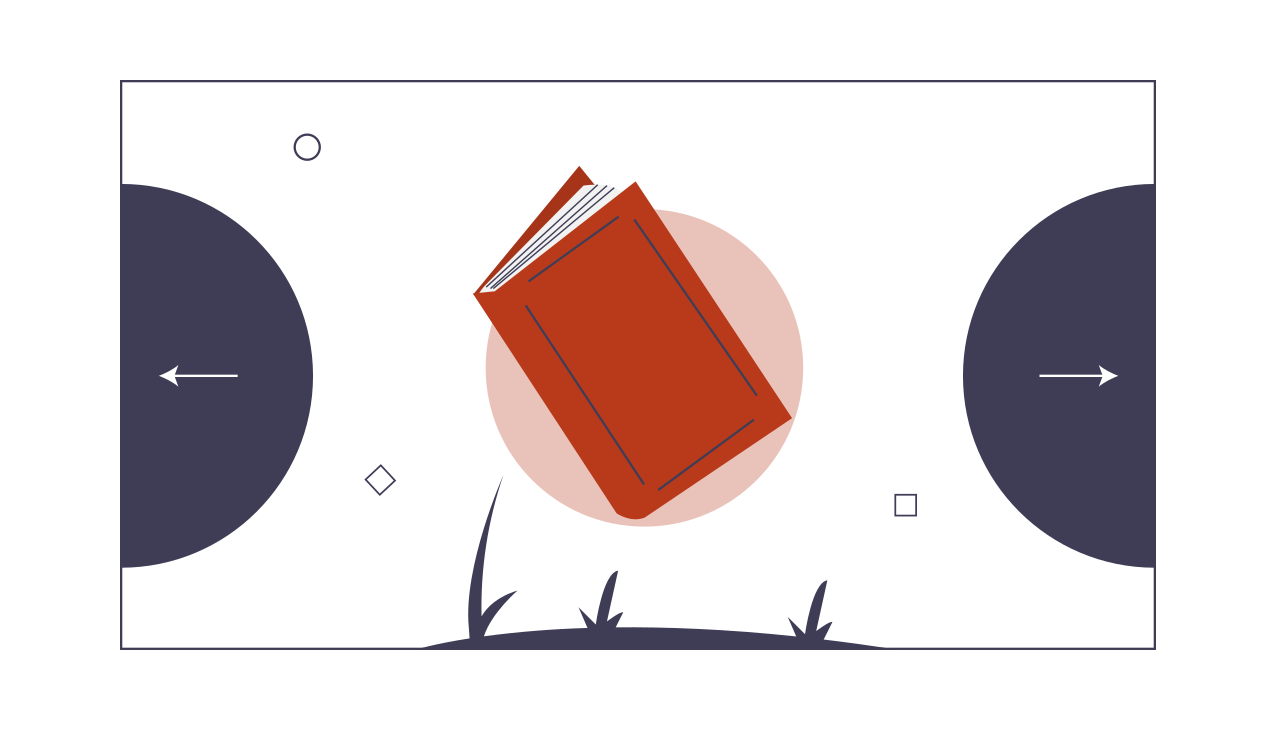
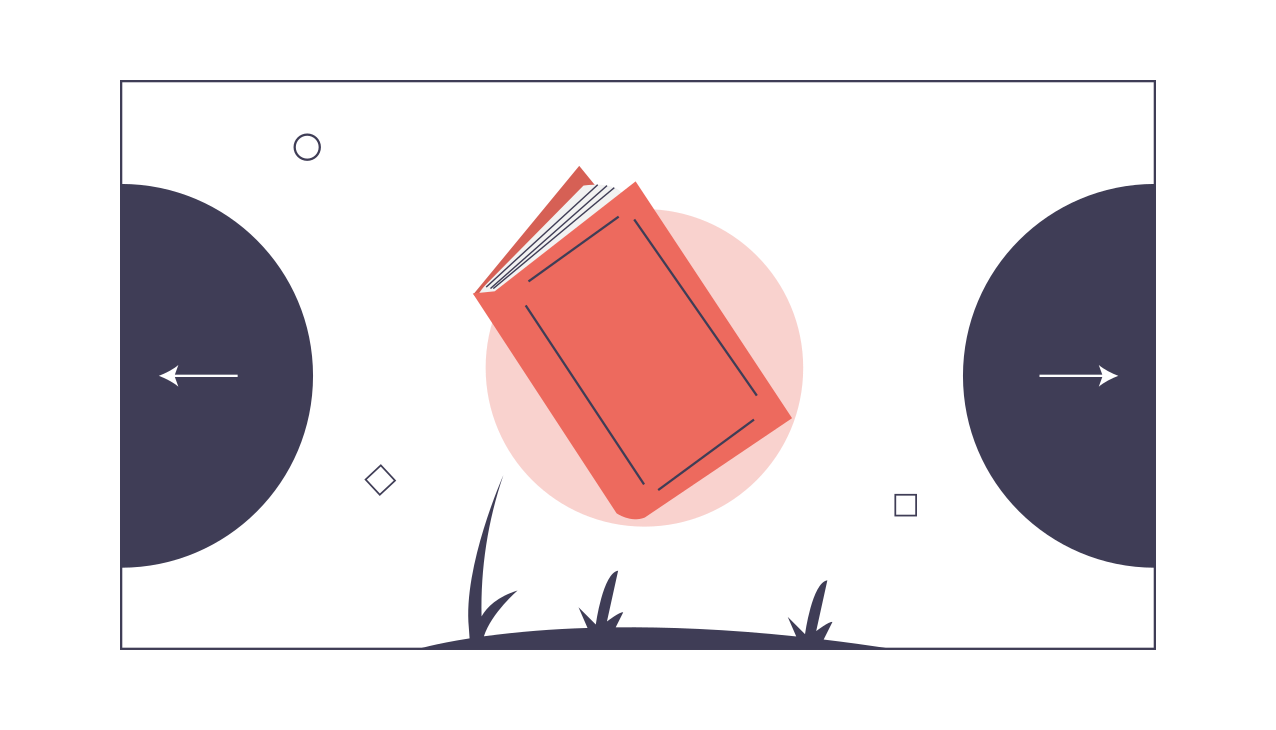
fix(css): Fix css color variables fix(404): Update 404 page fix(img): Delete useless images Modified the curent images to fit website color palette fix(JS): Fix main JS file

Changed region(s): [[0.3668, 0.2411, 0.6418, 0.7233]]

diff --git a/index.html b/index.html
@@ -33,14 +33,14 @@
 				<div class="line1"></div>
 				<div class="line2"></div>
 				<div class="line3"></div>
-			</div> 
+			</div>
 		</nav>
 
 		<div class="textContainer">
-            <h1 id="homeText">Quentin Boitel0</h1>
-            <h3>Lycéen</h3>
-            <a href="public/cv/CV_QB.pdf" target="_blank"><button class="downCv">Download CV</button></a>
-        </div>
+			<h1 id="homeText">Quentin Boitel0</h1>
+			<h3>Lycéen</h3>
+			<a href="public/cv/CV_QB.pdf" target="_blank"><button class="downCv">Download CV</button></a>
+		</div>
 
 	</header>
 
@@ -53,8 +53,9 @@
 				<h6>À propos</h6>
 			</div>
 			<p class="aboutDescription">
-				Étudiant de 17 ans, je souhaite devenir développeur web, donc dans c'est dans cette
-				optique que je développe ce site.
+				Étudiant de 17 ans, je souhaite devenir développeur web.
+				Bientôt en première année à l'ISEN Méditerrannée à Toulon,
+				je me forge une bonne base de connaissances en développant ce site.
 				<br><br>
 				Je vous souhaite la bienvenue sur mon site !
 			</p>
@@ -67,7 +68,7 @@
 		<h6>Regardez quelques unes de mes dernières créations</h6>
 	</div>
 	<section class="container box style textLeft portfolioUp">
-		<img class="imageRight fit boxImage" src="public/img/user.png" alt="User Add Image" />
+		<img class="imageRight fit boxImage" src="public/img/userAdd.png" alt="User Add Image" />
 		<div class="inner" data-aos="fade-in" data-aos-delay="300">
 			<div class="portfolioDescription">
 				<h6>API</h6>
@@ -107,7 +108,7 @@
 		<h6>Mon parcours</h6>
 	</div>
 	<section class="container box style textLeft experience">
-		<img class="imageRight fit boxImage" src="public/img/career.png" alt="Career Timeline" />
+		<img class="imageRight fit boxImage" src="public/img/careerDev.png" alt="Career Timeline" />
 		<div class="inner timeline" data-aos="fade-in" data-aos-delay="300">
 			<div class="timelineDate">
 				<span class="timelineDateDay">2017</span>

diff --git a/404.html b/404.html
@@ -21,7 +21,15 @@
             src: url('public/fonts/Qanelas.otf');
         }
 
+        @font-face {
+            font-family: Poetsen;
+            src: url('public/fonts/PoetsenOne-Regular.ttf');
+        }
+
         body {
+            display: flex;
+            align-items: center;
+            justify-content: center;
             text-align: center;
             padding: 95px;
             font: 20px Helvetica, sans-serif;
@@ -31,12 +39,13 @@
             background-size: auto, cover;
             background-position: top left, center 0;
             background-attachment: fixed, fixed;
+            overflow: hidden;
         }
 
         h1 {
             font-size: 50px;
             font-family: 'Qanelas';
-            color: #B83A1B;
+            color: #0072BB;
             text-align: center;
         }
 
@@ -46,16 +55,17 @@
             text-align: left;
             width: 650px;
             margin: 0 auto;
+            line-height: 27px;
         }
 
         a {
-            color: #223645;
+            color: #ED6A5E;
             text-decoration: none;
             font-family: 'AveFedan';
         }
 
         a:hover {
-            color: #B83A1B;
+            color: #3498DB;
             text-decoration: none;
         }
 
@@ -75,8 +85,7 @@
                 Sorry but the page you&rsquo;re looking for isn&rsquo;t available, please go to back to the
                 <a href="/">Home</a> page.
                 <br>
-                We&rsquo;re probably performing some maintenance at the moment, sorry for the inconvenience, we&rsquo;ll
-                be back online shortly !
+                You might be lost, but what were you trying to get to ? As advice, check above.
             </p>
             <p>Please <a href="mailto:49651680+Dotaker@users.noreply.github.com">contact</a> us for further information.
             </p>

diff --git a/public/css/main.css b/public/css/main.css
@@ -42,7 +42,6 @@ a:any-link {
 
 p {
   font-size: 1.8rem;
-  font-weight: 500;
 }
 
 img {
@@ -351,7 +350,7 @@ header {
 }
 
 .aboutDescription {
-  font-weight: 600;
+  line-height: 24px;
 }
 
 /*------------------------------------*\
@@ -380,9 +379,6 @@ header {
   font-weight: 300;
   opacity: 0.8;
   color: #175676;
-}
-.portfolioDescription p {
-  font-weight: 600;
 }
 .portfolioDescription .cta {
   display: inline-block;
@@ -477,10 +473,7 @@ header {
 }
 
 .timelineDescription {
-  color: #000;
   text-align: justify;
-  font-size: 14px;
-  font-weight: 600;
   line-height: 27px;
 }
 
@@ -533,10 +526,6 @@ textarea {
   outline-color: #3498DB;
   border-radius: 0.8rem;
 }
-input:checked,
-textarea:checked {
-  border-color: #3498DB;
-}
 
 input[type=submit] {
   position: relative;
@@ -544,7 +533,7 @@ input[type=submit] {
   transform: translateX(-50%);
   width: 75%;
   background-color: #20A00F;
-  color: #EEE;
+  color: #F5F5F5;
   padding: 1rem 2rem;
   border-radius: 0.8rem;
   border: none;
@@ -588,7 +577,7 @@ input[type=submit]:hover {
   cursor: pointer;
 }
 .footerContainer .up i {
-  color: #DCDCDC;
+  color: #F5F5F5;
   font-size: 2rem;
   margin: auto;
 }
@@ -656,7 +645,7 @@ input[type=submit]:hover {
 }
 .btn:hover i {
   transform: scale(1.3);
-  color: #f1f1f1;
+  color: #FFF;
 }
 .btn:hover::before {
   animation: socialButton 0.7s 1;
@@ -729,7 +718,7 @@ input[type=submit]:hover {
     top: 8.3vh;
     right: 0px;
     height: 92vh;
-    background-color: #fff;
+    background-color: #FFF;
     display: flex;
     flex-direction: column;
     align-items: center;

diff --git a/public/js/main.js b/public/js/main.js
@@ -31,12 +31,13 @@ const navSlide = () => {
   const nav = document.querySelector('.navLinks');
   const navLinks = document.querySelectorAll('.navLinks li');
 
-  burger.addEventListener('click', ()=>{
+  burger.addEventListener('click', () => {
     // Toggle Nav
     nav.classList.toggle('navActive');
     // Animate Links 
-    navLinks.forEach((link, index)=>{
-        link.style.animation = `navLinksFade .5s ease forwards ${index / 10 + 0,1}s`
+    navLinks.forEach((link, index) => {
+      link.style.animation = `navLinksFade .5s ease forwards ${index / 10 + 0,1}s`
+      console.log(index / 10)
     });
     // Burger animation 
     burger.classList.toggle('toggle');
